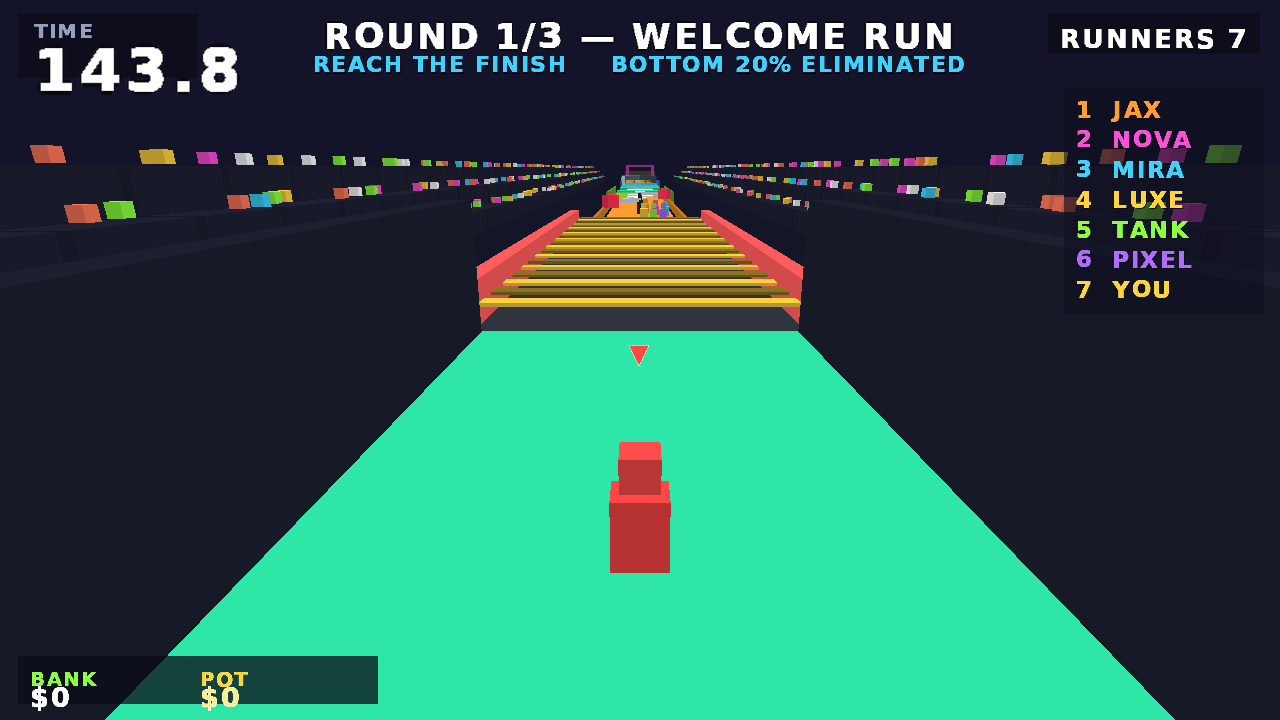
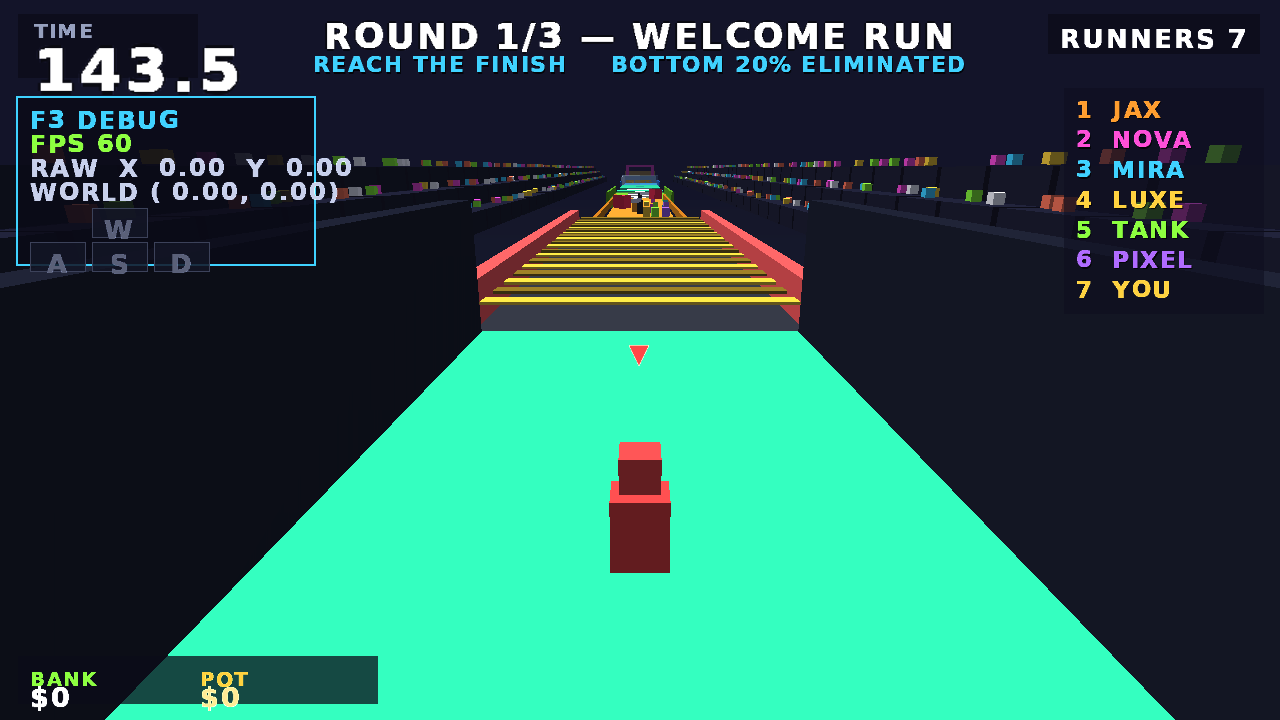
Add cameraOrbit cutscene beat & subtitle tokens
Added support for cameraOrbit cutscene beats in CutscenePlayer, enabling code-driven camera orbits around the arena center. Introduced a token replacement system for subtitles and speakers using a dictionary. Updated CutscenePlayer constructor for optional tokens and level center Z. Modified camera logic to prioritize orbit beats. Added new and updated binary image files.

diff --git a/src/LastOneRich/Cine/CutscenePlayer.cs b/src/LastOneRich/Cine/CutscenePlayer.cs
@@ -12,6 +12,9 @@ public sealed class CutscenePlayer
 {
     readonly List<CutsceneBeatDTO> _beats;
     readonly List<CutsceneBeatDTO> _camKeys = new();
+    readonly List<CutsceneBeatDTO> _orbitKeys = new();
+    readonly Dictionary<string, string> _tokens;
+    readonly float _levelMidZ;
     readonly double _duration;
     float _t;
     int _next;
@@ -24,14 +27,29 @@ public sealed class CutscenePlayer
     public bool ConfettiFired;
     public float PrizePop;
 
-    public CutscenePlayer(CutsceneDTO dto)
+    public CutscenePlayer(CutsceneDTO dto, Dictionary<string, string> tokens = null, float levelMidZ = 100f)
     {
         _beats = dto.Beats.OrderBy(b => b.T).ToList();
         _duration = dto.Duration;
+        _tokens = tokens ?? new Dictionary<string, string>();
+        _levelMidZ = levelMidZ;
         foreach (var b in _beats)
+        {
             if (string.Equals(b.Type, "camera", StringComparison.OrdinalIgnoreCase))
                 _camKeys.Add(b);
+            if (string.Equals(b.Type, "cameraOrbit", StringComparison.OrdinalIgnoreCase))
+                _orbitKeys.Add(b);
+        }
         if (_camKeys.Count > 0) ApplyCam(_camKeys[0], _camKeys[0], 0);
+        else if (_orbitKeys.Count > 0) ApplyOrbit(_orbitKeys[0], 0);
+    }
+
+    string Tok(string s)
+    {
+        if (s == null || _tokens.Count == 0) return s;
+        foreach (var kv in _tokens)
+            s = s.Replace("{" + kv.Key + "}", kv.Value);
+        return s;
     }
 
     public void Update(float dt, AudioBank audio)
@@ -46,8 +64,8 @@ public sealed class CutscenePlayer
             switch ((b.Type ?? "").ToLowerInvariant())
             {
                 case "subtitle":
-                    SubSpeaker = b.Speaker;
-                    SubText = b.Text;
+                    SubSpeaker = Tok(b.Speaker);
+                    SubText = Tok(b.Text);
                     _subUntil = (float)b.T + (float)b.Dur;
                     break;
                 case "overlay":
@@ -71,8 +89,27 @@ public sealed class CutscenePlayer
         if (_t >= _subUntil) { SubText = null; }
         if (_t >= _prizeUntil) ShowPrize = false;
 
-        EvalCamera();
+        if (_orbitKeys.Count > 0) { ApplyOrbitCurrent(); } else { EvalCamera(); }
         if (_t >= _duration) { Done = true; SubText = null; ShowPrize = false; }
+    }
+
+    void ApplyOrbitCurrent()
+    {
+        int i = 0;
+        for (int k = 0; k < _orbitKeys.Count; k++)
+            if (_orbitKeys[k].T <= _t) i = k;
+        ApplyOrbit(_orbitKeys[i], _t - (float)_orbitKeys[i].T);
+    }
+
+    /// <summary>cameraOrbit beat: code-driven slow orbit around the arena mid — works for ANY level.</summary>
+    void ApplyOrbit(CutsceneBeatDTO b, float localT)
+    {
+        float centerZ = b.CenterZ >= 0 ? (float)b.CenterZ : _levelMidZ;
+        float radius = (float)b.Radius, height = (float)b.Height, speed = (float)b.Speed;
+        float ang = speed * localT;
+        Cam.Position = new Vector3(MathF.Sin(ang) * radius, height, centerZ + MathF.Cos(ang) * radius);
+        Cam.LookAt = new Vector3(0, 1.5f, centerZ);
+        Cam.FovDeg = (float)b.Fov;
     }
 
     float _subUntil, _prizeUntil;
